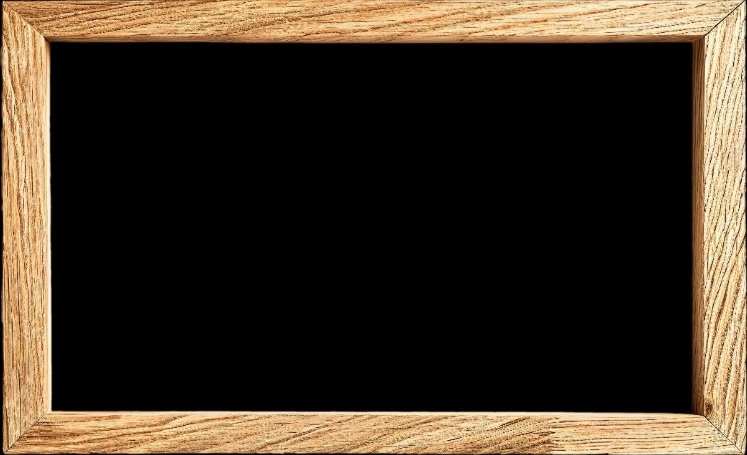
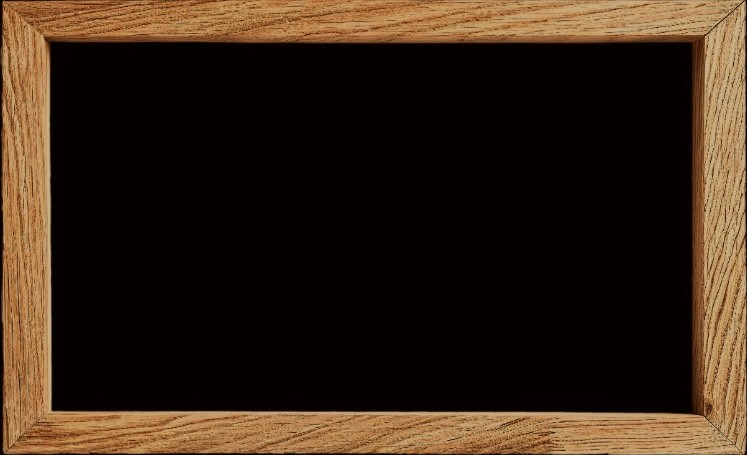
Move the gym to 1305 Dundas, add gift certificates, and darken the wood frame.

Changed region(s): [[0.0, 0.0, 1.0, 1.0]]

diff --git a/apps/web/src/app/tv/tv-board.tsx b/apps/web/src/app/tv/tv-board.tsx
@@ -160,7 +160,7 @@ const FLOOR_SULLYS: FeedLine[] = [
   { kind: "trivia", text: "Coaches Dupont and Wade held the floor through the Ossington years." },
   { kind: "trivia", text: "2019 · Sully's moved to 1554 Dundas St W · west-end chapter." },
   { kind: "trivia", text: "Sully's · about 2,000 square feet · bags, ring, and a packed floor." },
-  { kind: "trivia", text: "Sully's · 1554 Dundas St W · same mission, new chapter." },
+  { kind: "trivia", text: "Sully's · 1305 Dundas Street West · down the stairs · Toronto M6J 1X8." },
   { kind: "trivia", text: "Heritage Toronto marked 109 Ossington. The work moved west." },
 ];
 
@@ -180,6 +180,13 @@ const FLOOR_CHUVALO: FeedLine[] = [
 ];
 
 const FLOOR_CANADA: FeedLine[] = [
+  { kind: "trivia", text: "Rubin “Hurricane” Carter died at home in Toronto on 20 April 2014. He was 76." },
+  { kind: "trivia", text: "Carter made Toronto his home and became a Canadian citizen." },
+  { kind: "trivia", text: "A U.S. federal judge set the convictions aside in November 1985. Carter’s next chapter was in this city." },
+  { kind: "trivia", text: "From 1993, Carter was executive director of Toronto’s Association in Defence of the Wrongly Convicted, for about ten years." },
+  { kind: "trivia", text: "That Toronto group is now Innocence Canada. Carter’s work was for people convicted of crimes they did not commit." },
+  { kind: "trivia", text: "York University gave Carter an honorary doctorate in 2005. The WBC gave him an honorary championship belt in 1993." },
+  { kind: "trivia", text: "Carter’s ring book: 40 fights, 27 wins, 19 knockouts, 12 losses, 1 draw. Middleweight." },
   { kind: "trivia", text: "Canada · George Dixon, 1890 — first Canadian-born world champ." },
   { kind: "trivia", text: "Canada · Tommy Burns, 1906 — first Canadian heavyweight world champ." },
   { kind: "trivia", text: "Canada · Bert Schneider — Olympic gold, Antwerp 1920." },
@@ -371,7 +378,7 @@ const FLOOR_CURRENT: FeedLine[] = [
 const FLOOR_TORONTO: FeedLine[] = [
   { kind: "trivia", text: "Toronto boxing · Chuvalo's chin, O'Sullivan's amateur run, Ruddock's smash, Morrison on this floor." },
   { kind: "trivia", text: "Parkdale raised this gym. Ossington made it famous. Dundas West kept the doors open." },
-  { kind: "trivia", text: "Dundas and Dufferin · the current chapter. The rules did not move." },
+  { kind: "trivia", text: "1305 Dundas Street West · down the stairs · the current chapter. The rules did not move." },
   { kind: "trivia", text: "Lee Reeves · Limerick · died 16 November 2026 · aged 31." },
   { kind: "trivia", text: "Lee Reeves fought in Toronto. Danforth Music Hall, 20 April 2019. Rebel, 5 May 2022, NABF super lightweight." },
   { kind: "trivia", text: "Lee Reeves trained with Hardknocks Boxing Club. He was part of this city's boxing community." },

diff --git a/apps/web/src/app/store/page.tsx b/apps/web/src/app/store/page.tsx
@@ -24,13 +24,14 @@ export const metadata = {
     : "Store · Sully's Boxing Gym",
   description: isRedOwl
     ? "Red Owl Boxing merchandise — gloves, hoodies, tees, and hats. Shop the official collection."
-    : "Sully's gear and apparel — wraps, gloves, hats, and tees. Support Canada's oldest boxing club.",
+    : "Sully's gear, gift certificates, and apparel. Support Canada's oldest boxing club.",
 };
 
 export default function StorePage() {
   const products = getStoreProducts();
   const gear = products.filter((p) => p.category === "gear");
   const apparel = products.filter((p) => p.category === "apparel");
+  const gifts = products.filter((p) => p.category === "gift");
   const shopBase = getShopBase();
 
   return (
@@ -57,7 +58,7 @@ export default function StorePage() {
           <p className={styles.lead}>
             {isRedOwl
               ? "Gloves, hoodies, tees, and hats from the Red Owl collection. Checkout on redowlboxing.com."
-              : "Wraps, gloves, hats, and tees. Buy online or pick up at the desk. Proceeds support the non-profit mission."}
+              : "Wraps, gloves, hats, tees, and gift certificates. Buy online or pick up at the desk. Proceeds support the non-profit mission."}
           </p>
           <div className={styles.actions}>
             <a href={shopBase} target="_blank" rel="noreferrer">
@@ -81,6 +82,7 @@ export default function StorePage() {
           </div>
         </div>
 
+        <ProductBlock title="Gift certificates" products={gifts} />
         <ProductBlock title="Training gear" products={gear} />
         <ProductBlock title="Apparel" products={apparel} />
 
@@ -123,6 +125,8 @@ function ProductBlock({
             "compareAtCents" in p && p.compareAtCents
               ? p.compareAtCents
               : null;
+          const href = productShopUrl(p);
+          const external = href.startsWith("http");
           return (
             <li key={p.id} className={styles.item}>
               <div className={styles.thumb}>
@@ -158,9 +162,10 @@ function ProductBlock({
                 ) : (
                   <a
                     className={styles.buy}
-                    href={productShopUrl(p)}
-                    target="_blank"
-                    rel="noreferrer"
+                    href={href}
+                    {...(external
+                      ? { target: "_blank", rel: "noreferrer" }
+                      : undefined)}
                   >
                     Buy
                   </a>

diff --git a/apps/web/src/lib/store-products.ts b/apps/web/src/lib/store-products.ts
@@ -11,7 +11,7 @@ export type StoreProduct = {
   id: string;
   name: string;
   priceCents: number;
-  category: "gear" | "apparel";
+  category: "gear" | "apparel" | "gift";
   blurb: string;
   legacySlug: string;
   image: string;
@@ -101,6 +101,33 @@ export const SULLYS_STORE_PRODUCTS: StoreProduct[] = [
     legacySlug: "product-1",
     image: "/store/sullys-boxing-gym-t-shirts.jpg",
   },
+  {
+    id: "gift-certificate-50",
+    name: "Gift Certificate — $50",
+    priceCents: 5000,
+    category: "gift",
+    blurb: "Worth $50 at the desk. Membership, classes, or gear.",
+    legacySlug: "gift-certificate-50",
+    image: "/store/gift-certificate.jpg",
+  },
+  {
+    id: "gift-certificate-100",
+    name: "Gift Certificate — $100",
+    priceCents: 10000,
+    category: "gift",
+    blurb: "Worth $100 at the desk. Membership, classes, or gear.",
+    legacySlug: "gift-certificate-100",
+    image: "/store/gift-certificate.jpg",
+  },
+  {
+    id: "gift-certificate-150",
+    name: "Gift Certificate — $150",
+    priceCents: 15000,
+    category: "gift",
+    blurb: "Worth $150 at the desk. One month of the adult membership, or gear.",
+    legacySlug: "gift-certificate-150",
+    image: "/store/gift-certificate.jpg",
+  },
 ];
 
 export type CatalogProduct = StoreProduct | RedOwlStoreProduct;
@@ -134,6 +161,7 @@ export function productShopUrl(product: CatalogProduct) {
   if (getBrandId() === "red-owl" && "handle" in product) {
     return redOwlProductUrl(product);
   }
+  if (product.category === "gift") return "/store#checkout";
   return `${SHOP_BASE_SULLYS}/${product.legacySlug}/`;
 }
 

diff --git a/apps/web/src/lib/brand.ts b/apps/web/src/lib/brand.ts
@@ -108,8 +108,8 @@ const sullysBrand: BrandConfig = {
     name: "Sully's Boxing Gym",
     legalName: "Sully's Recreation & Athletic Centre",
     tagline: "Canada's oldest boxing club · EST 1943",
-    addressLine1: "1554 Dundas St W (lower level)",
-    addressLine2: "Toronto, ON M6H 1Z6",
+    addressLine1: "1305 Dundas Street West, down the stairs",
+    addressLine2: "Toronto, ON M6J 1X8",
     phoneDisplay: "(416) 805-8108",
     phoneTel: "+14168058108",
     phoneAltDisplay: "+1-647-284-1510",
@@ -121,8 +121,8 @@ const sullysBrand: BrandConfig = {
     donationsUrl: "https://www.sullysboxinggym.com/donations/",
     boxrecUrl: "https://boxrec.com/en/club/3854",
     mapUrl:
-      "https://www.google.com/maps/search/?api=1&query=1554+Dundas+St+W+Toronto+ON+M6H+1Z6",
-    mapEmbedQuery: "1554+Dundas+St+W,+Toronto,+ON+M6H+1Z6",
+      "https://www.google.com/maps/search/?api=1&query=1305+Dundas+Street+West+Toronto+ON+M6J+1X8",
+    mapEmbedQuery: "1305+Dundas+Street+West,+Toronto,+ON+M6J+1X8",
     hours: [
       { days: "Mon – Fri", open: "7:30 AM", close: "9:00 PM" },
       { days: "Saturday", open: "11:00 AM", close: "5:00 PM" },

diff --git a/apps/staff/src/lib/gym-info.ts b/apps/staff/src/lib/gym-info.ts
@@ -1,12 +1,12 @@
 /** Soft-launch gym facts — keep in sync with apps/web/src/lib/gym-info.ts */
 export const GYM = {
   name: "Sully's Boxing Gym",
-  addressLine1: "1554 Dundas St W (lower level)",
-  addressLine2: "Toronto, ON M6H 1Z6",
+  addressLine1: "1305 Dundas Street West, down the stairs",
+  addressLine2: "Toronto, ON M6J 1X8",
   phoneDisplay: "(416) 805-8108",
   phoneTel: "+14168058108",
   email: "info@sullysboxinggym.com",
   mapUrl:
-    "https://www.google.com/maps/search/?api=1&query=1554+Dundas+St+W+Toronto+ON+M6H+1Z6",
+    "https://www.google.com/maps/search/?api=1&query=1305+Dundas+Street+West+Toronto+ON+M6J+1X8",
   hoursSummary: "Mon–Fri 7:30 AM–9:00 PM · Sat 12–5 PM",
 } as const;

diff --git a/apps/web/src/app/donate/page.tsx b/apps/web/src/app/donate/page.tsx
@@ -78,7 +78,7 @@ export default function DonatePage() {
           <div className={styles.way}>
             <h3 className={styles.wayLabel}>In person</h3>
             <p className={styles.copy}>
-              Come down the stairs at {GYM.addressLine1}. Desk staff can take
+              The desk is down the stairs at 1305 Dundas Street West. Desk staff can take
               your gift and issue a receipt path with the board.
             </p>
             <Link href="/contact" className={styles.link}>

diff --git a/apps/web/src/app/contact/page.tsx b/apps/web/src/app/contact/page.tsx
@@ -15,7 +15,7 @@ export const metadata = {
   description:
     brand.id === "red-owl"
       ? "Hours, address, map, and contact details for Red Owl Boxing Scarborough at 2206 Eglinton Ave E, Unit 120."
-      : "Hours, address, and contact for Sully's Boxing Gym — Canada's oldest boxing club at 1554 Dundas St W, Toronto.",
+      : "Hours, address, and contact for Sully's Boxing Gym — Canada's oldest boxing club at 1305 Dundas Street West, Toronto.",
 };
 
 export default function ContactPage() {

diff --git a/apps/api/src/commerce.controller.ts b/apps/api/src/commerce.controller.ts
@@ -43,6 +43,9 @@ const STORE_CATALOG: {
     priceCents: 4000,
     category: "apparel",
   },
+  { id: "gift-certificate-50", name: "Gift Certificate — $50", priceCents: 5000, category: "gift" },
+  { id: "gift-certificate-100", name: "Gift Certificate — $100", priceCents: 10000, category: "gift" },
+  { id: "gift-certificate-150", name: "Gift Certificate — $150", priceCents: 15000, category: "gift" },
 ];
 
 const DONATION_PRESETS = [2500, 5000, 10000, 25000];

diff --git a/apps/web/src/app/store/store-cart.tsx b/apps/web/src/app/store/store-cart.tsx
@@ -63,7 +63,7 @@ export function StoreCart() {
   }
 
   return (
-    <section className={styles.desk} aria-label="Checkout">
+    <section id="checkout" className={styles.desk} aria-label="Checkout">
       <h2 className={styles.subhead}>Checkout on Sully&apos;s</h2>
       <p className={styles.copy}>
         Native checkout (Moneris when configured · mock demo otherwise). Desk

diff --git a/apps/web/src/components/store-teaser.tsx b/apps/web/src/components/store-teaser.tsx
@@ -9,10 +9,10 @@ import {
 import styles from "./store-teaser.module.css";
 
 const SULLYS_FEATURED_IDS = [
+  "gift-certificate-100",
   "adult-hand-wraps",
   "sullys-boxing-gloves-black",
   "sullys-baseball-hat",
-  "sullys-boxing-gym-t-shirts",
 ] as const;
 
 const RED_OWL_FEATURED_IDS = [

diff --git a/apps/api/prisma/seed.ts b/apps/api/prisma/seed.ts
@@ -86,7 +86,7 @@ async function main() {
       organizationId: org.id,
       name: isRedOwl
         ? "Red Owl · 2206 Eglinton Ave E"
-        : "Sully's · 1554 Dundas St W",
+        : "Sully's · 1305 Dundas Street West",
       timezone: "America/Toronto",
     },
   });

diff --git a/docs/09-manuals/CHATGPT-FRONT-DESK-SIGN.md b/docs/09-manuals/CHATGPT-FRONT-DESK-SIGN.md
@@ -39,7 +39,7 @@ Small line under the wordmark, in red:
 
 Address, small, at the bottom. Do not enlarge it.
 
-1554 Dundas St W (lower level), Toronto
+1305 Dundas Street West (down the stairs), Toronto
 (416) 805-8108
 
 No Quiet Agency credit on this sign. No passwords. No QR code. No website address. No phone mockup. No second character. No stock photo. No emoji.
